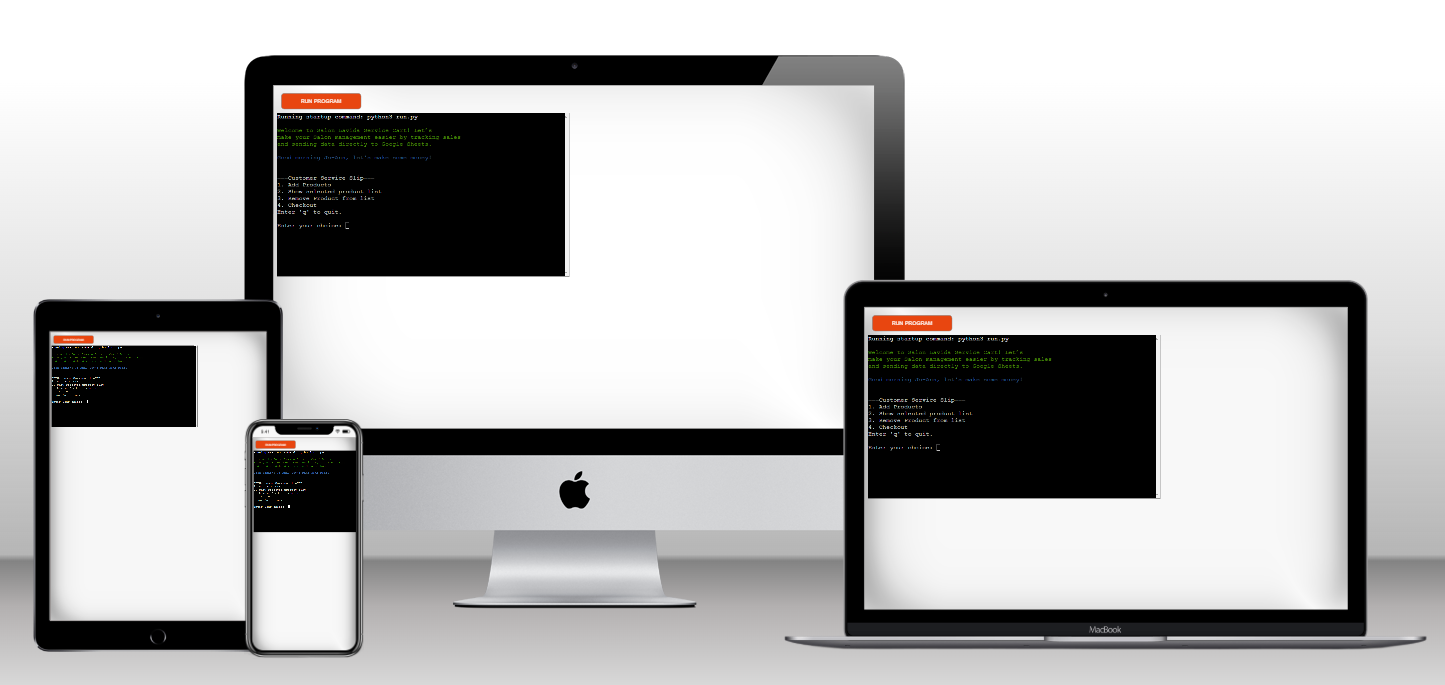
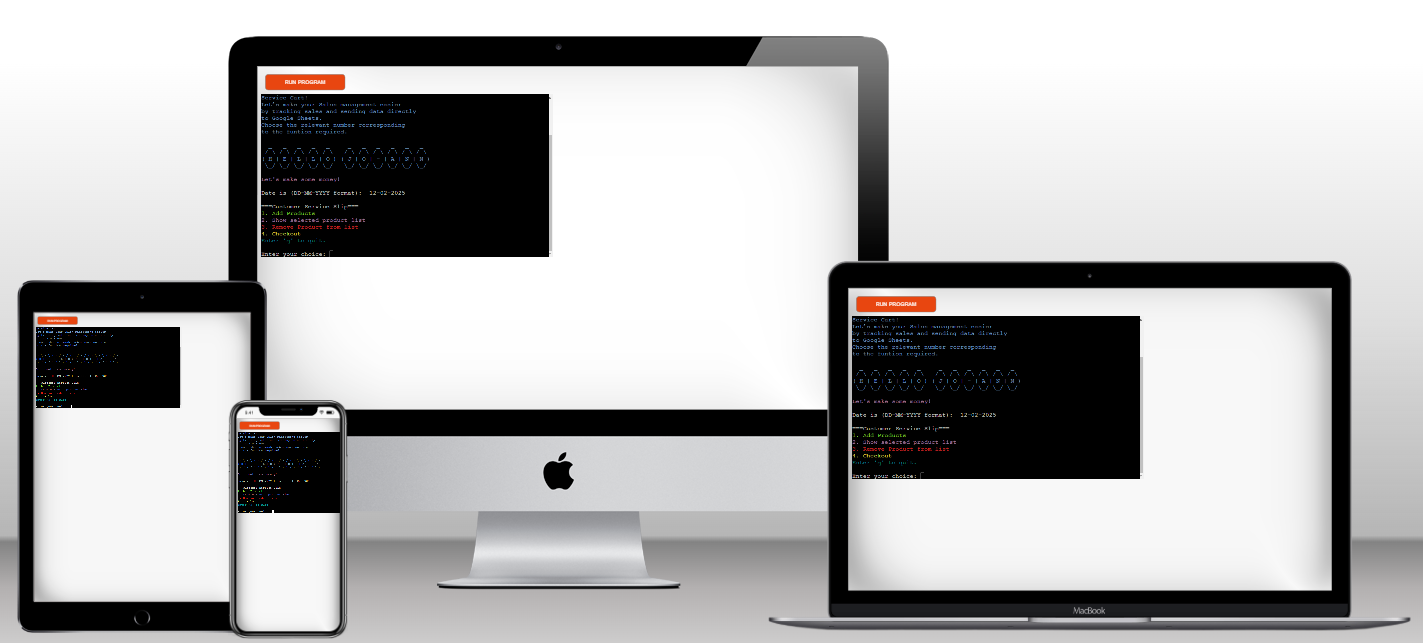
add new screenshots to README.md

Changed region(s): [[0.0, 0.0311, 1.0, 0.9953], [0.773, 0.4666, 0.8039, 0.4977]]

diff --git a/README.md b/README.md
@@ -107,48 +107,65 @@ This code structure was designed to balance user experience, maintainability, an
 
 ### Functionality
 
-<img src="./assets/initial_page.png">
+<img src="./assets/welcome_page.png">
 
 - Initial page featuring a welcome message and a list of functions to choose from.
+
 ---
-<img src="./assets/function_menu.png">
+
+<img src="./assets/function_list.png">
 
 - The list of functions to choose from and a prompt for the user to enter the chosen option.
+
 ---
-<img src="./assets/product_menu.png">
+
+<img src="./assets/select_item_total.png">
 
 - When a option "1" is chosen, the product menu is shown, with a prompt to the user to
 confirm the number of items that should be added to the list.
----
-<img src="./assets/choose_total_menu_items_to_add.png">
 
 - The list only contains 5 Items for this project, but the list can be
 added to in the future and adjusted as products change.
----
-<img src="./assets/enter_product_codes_to_add.png">
 
-- A prompt for the user to enter the relevant item codes.
 ---
-<img src="./assets/list_items_added.png">
+
+<img src="./assets/list_shown.png">
 
 - A list of the Items added to the list is displayed.
 - In the instance a irrelevant code is entered a "false" statement will appear for only that code.
+
 ---
-<img src="./assets/checkout_after_service_completed.png">
+
+<img src="./assets/item_removed.png">
+<img src="./assets/item_removed_code.png">
+
+- items can be removed from the list before checkout is initialised.
+
+---
+
+<img src="./assets/ready_for_checkout.png">
 
 - Once the list/service is completed the checkout function can be triggered by choosing option "4".
----
-<img src="./assets/total_cos_total_price_basket_reset.png">
 
-- Upon successful checkout the total price and cost will be shown and relevent sales data will be sent to Daily_sales.txt.
 ---
+
+<img src="./assets/list_checkedout.png">
+
+- Upon successful checkout the total price and cost will be shown and relevent sales data will be sent to daily_sales google sheet.
+
+---
+
 <img src="./assets/q_for_quit.png">
+<img src="./assets/q_aborted.png">
 
 - "q" can be used at any step in the process to abort.
----
-<img src="./assets/googlesheet.png">
 
-- Data is sent to the google sheet once checkout is complete.
+---
+
+<img src="./assets/google_sheet.png">
+
+- Data is sent to the google sheet once checkout is complete. In the sheet, the daily profit is calculated per date.
+
 ---
 
 ## Testing and Debugging
